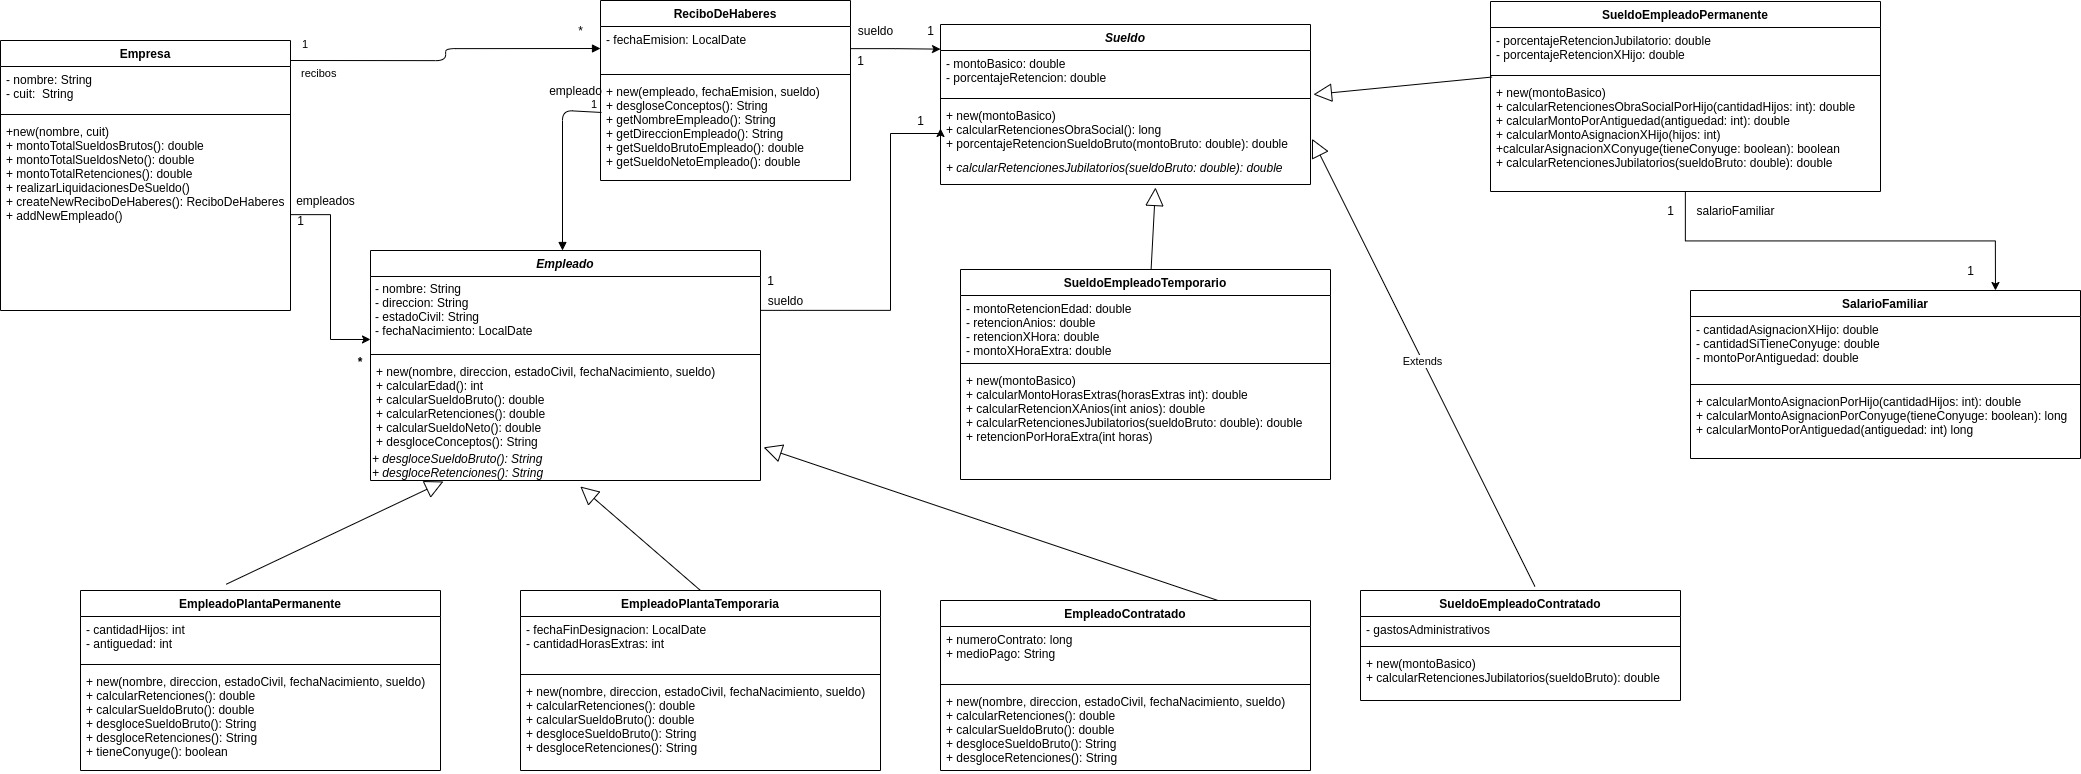
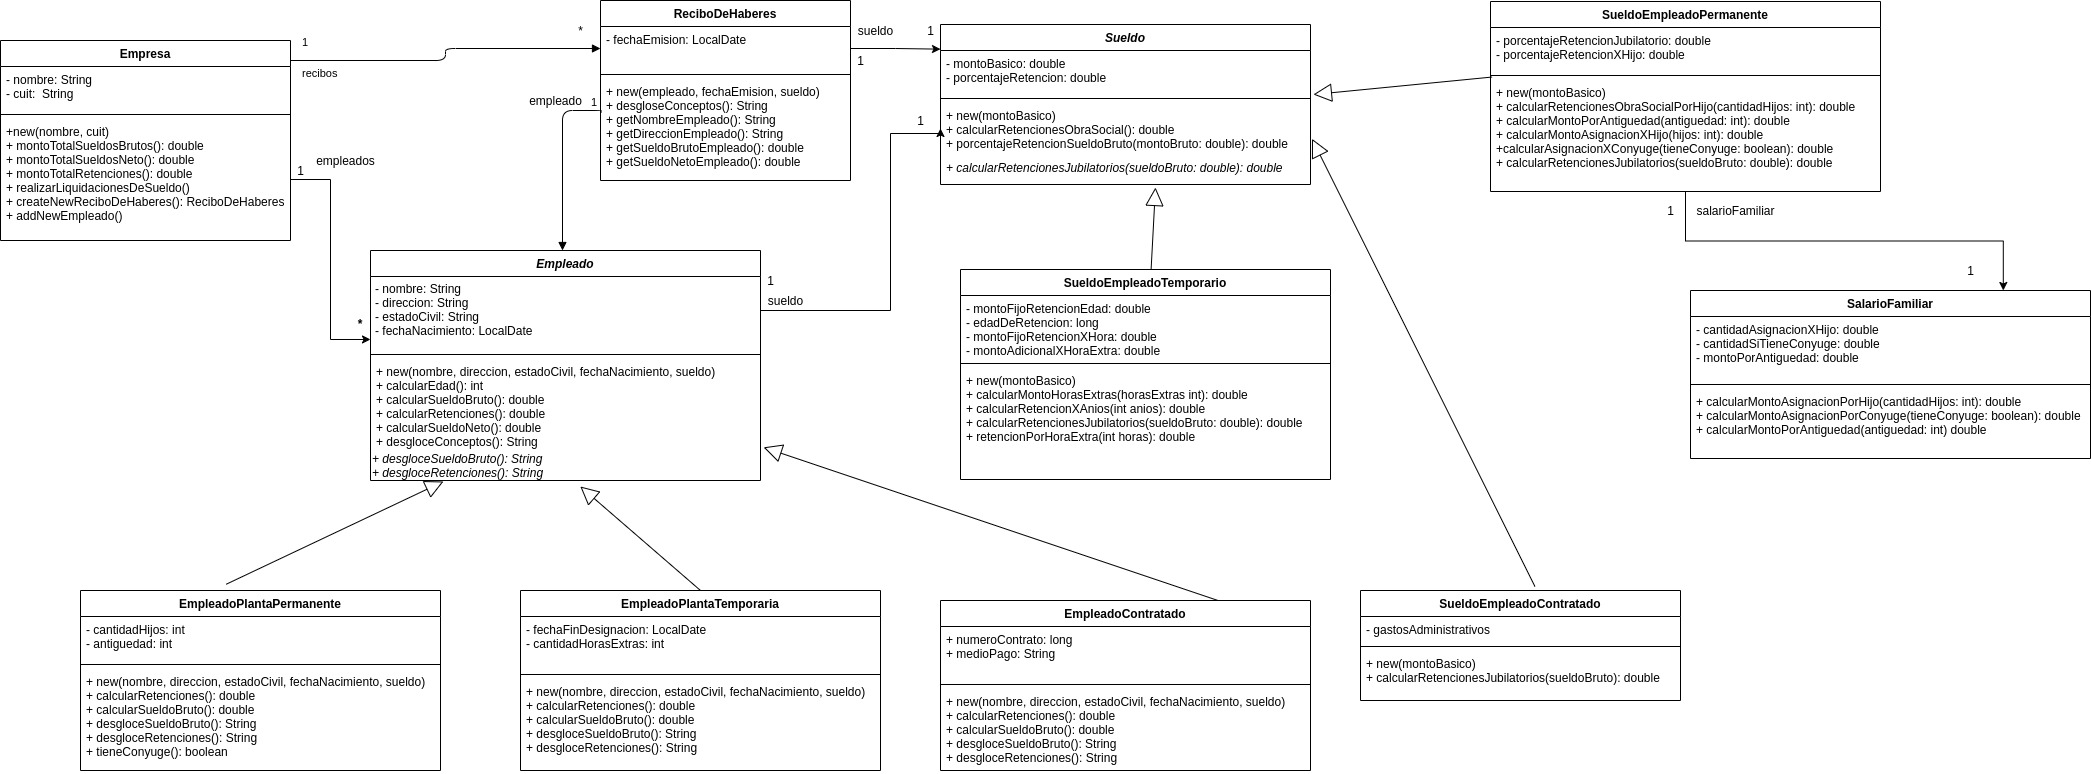
Update uml

diff --git a/src/ar/edu/unq/po2/tp2/sueldo/SueldoEmpleadoTemporario.java b/src/ar/edu/unq/po2/tp2/sueldo/SueldoEmpleadoTemporario.java
@@ -2,24 +2,24 @@ package ar.edu.unq.po2.tp2.sueldo;
 
 public class SueldoEmpleadoTemporario extends Sueldo {
 	
-	private double montoRetencionEdad = 25.0;
+	private double montoFijoRetencionEdad = 25.0;
 	
-	private double retencionAnios = 50.0;
+	private long edadDeRetencion = 50;
 	
-	private double retencionXHora = 5.0;
+	private double montoFijoRetencionXHora = 5.0;
 	
-	private double montoXHoraExtra = 40.0;
+	private double montoAdicionalXHoraExtra = 40.0;
 
 	public SueldoEmpleadoTemporario(double montoBasico) {
 		super(montoBasico);
 	}
 	
 	public double calcularMontoXHorasExtras(int horas) {
-		return this.montoXHoraExtra * horas;
+		return this.montoAdicionalXHoraExtra * horas;
 	}
 	
 	public double calcularRetencionXAnios(int edad) {
-		return edad > this.retencionAnios ? this.montoRetencionEdad : 0;
+		return edad > this.edadDeRetencion ? this.montoFijoRetencionEdad : 0;
 	}
 
 	@Override
@@ -28,6 +28,6 @@ public class SueldoEmpleadoTemporario extends Sueldo {
 	}
 	
 	public double retencionPorHoraExtra(int horas) {
-		return this.retencionXHora * horas;
+		return this.montoFijoRetencionXHora * horas;
 	}
 }
